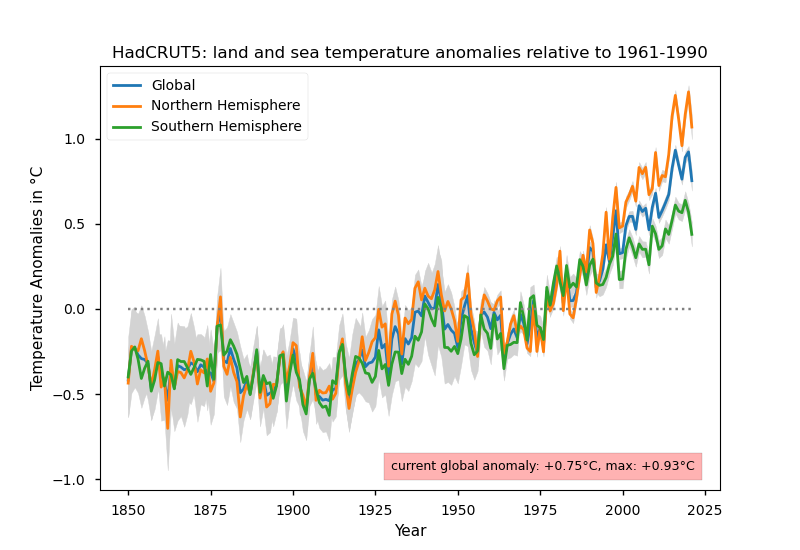
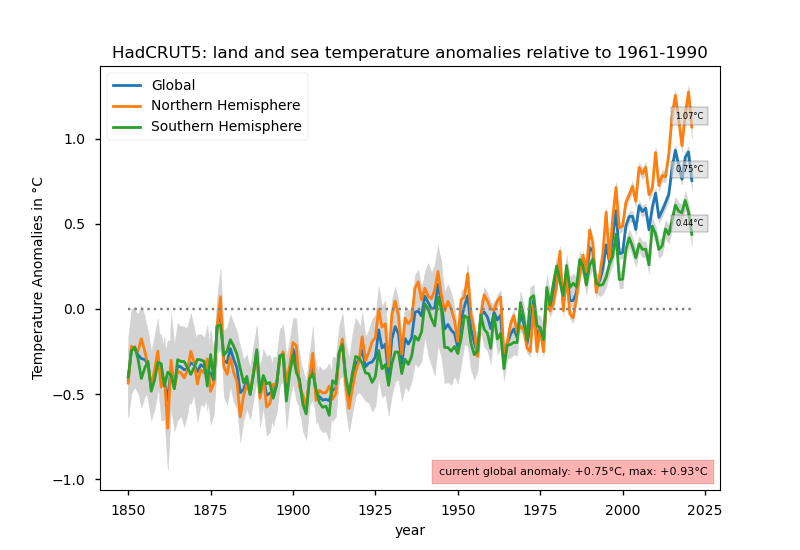
New cmdline option '--annotate'

diff --git a/hadcrut5-plot.py b/hadcrut5-plot.py
@@ -19,7 +19,7 @@ def parse_args():
     examples = [
        "%(prog)s",
        "%(prog)s --global",
-       "%(prog)s --outfile HadCRUT5.png",
+       "%(prog)s --outfile HadCRUT5.png --annotate",
        "%(prog)s --period \"1850-1900\" --outfile HadCRUT5-1850-1900.png",
        "%(prog)s --period \"1880-1920\" --outfile HadCRUT5-1880-1920.png",
        "%(prog)s --period \"1850-1900\" --smoother 5 --outfile HadCRUT-1850-1900-smoother.png"]
@@ -53,6 +53,11 @@ def parse_args():
         dest="southern_temps",
         help="Southern Hemisphere Temperatures")
     parser.add_argument(
+        "-a", "--annotate",
+        action="store_true",
+        dest="annotate_plot",
+        help="add the temperature annotations")
+    parser.add_argument(
         "-v", "--verbose",
         action="store_true",
         dest="verbose",
@@ -60,7 +65,7 @@ def parse_args():
 
     return parser.parse_args()
 
-def plotline(datasets, outfile, period, chunksize, verbose):
+def plotline(datasets, outfile, period, chunksize, annotations, verbose):
     mpl.style.use("seaborn-notebook")
     anomaly_current = {}
     anomaly_max = {}
@@ -94,11 +99,23 @@ def plotline(datasets, outfile, period, chunksize, verbose):
         else:
             plt.fill_between(years, lower, upper, color="lightgray")
 
-        anomaly_current[item] = hadcrut5.dataset_current_anomaly(mean)
-        anomaly_max[item] = hadcrut5.dataset_max_anomaly(mean)
-        if verbose:
-            print("Current anomalies: {}".format(anomaly_current[item]))
-            print("Max anomalies: {}".format(anomaly_max[item]))
+            anomaly_current[item] = hadcrut5.dataset_current_anomaly(mean)
+            anomaly_max[item] = hadcrut5.dataset_max_anomaly(mean)
+            if verbose:
+                print("Current anomalies: {}".format(anomaly_current[item]))
+                print("Max anomalies: {}".format(anomaly_max[item]))
+
+            if annotations:
+                plt.annotate("{0:.2f}°C".format(anomaly_current[item]),
+                             xy=(years[-1]-5, anomaly_current[item]+.05),
+                             fontsize=6,
+                             horizontalalignment='left',
+                             bbox={
+                                 "facecolor": "lightgray",
+                                 "alpha": 0.6,
+                                 "pad": 3
+                            }
+                )
 
         plt.plot(years, mean, linewidth=2, markersize=12, label=item)
 
@@ -107,32 +124,32 @@ def plotline(datasets, outfile, period, chunksize, verbose):
 
     plt.title(
         "HadCRUT5: land and sea temperature anomalies relative to {}".format(period))
-    plt.xlabel("Year")
+    plt.xlabel("year", fontsize=10)
 
     ylabel = "Temperature Anomalies in °C"
     if chunksize > 1:
         ylabel += " ({}-year averages)".format(chunksize)
-    plt.ylabel(ylabel)
+    else:
+        current = anomaly_current.get('Global')
+        maximum = anomaly_max.get('Global')
+        if current and maximum:
+            ax = plt.gca()
+            plt.annotate(("current global anomaly: {0:+.2f}°C, max: {1:+.2f}°C"
+                          .format(current, maximum)),
+                         xy=(0.98, 0.03),
+                         xycoords="axes fraction",
+                         fontsize=8,
+                         horizontalalignment="right",
+                         verticalalignment="bottom",
+                         bbox={
+                             "facecolor": "{}".format(
+                                 "blue" if current <= 0 else "red"
+                             ),
+                             "alpha": 0.3,
+                             "pad": 5,
+                         })
 
-    current = anomaly_current.get('Global')
-    maximum = anomaly_max.get('Global')
-    if current and maximum:
-        ax = plt.gca()
-        plt.annotate(("current global anomaly: {0:+.2f}°C, max: {1:+.2f}°C"
-                      .format(current, maximum)),
-                     xy=(0.96, 0.04),
-                     xycoords="axes fraction",
-                     fontsize=9,
-                     horizontalalignment="right",
-                     verticalalignment="bottom",
-                     bbox={
-                         "facecolor": "{}".format(
-                             "blue" if current <= 0 else "red"
-                         ),
-                         "alpha": 0.3,
-                         "pad": 5
-                     })
-
+    plt.ylabel(ylabel, fontsize=10)
     plt.legend()
 
     if outfile:
@@ -166,6 +183,7 @@ def main():
              args.outfile,
              args.period,
              int(args.smoother) if args.smoother else 1,
+             args.annotate_plot,
              args.verbose)
 
 if __name__ == "__main__":

diff --git a/README.md b/README.md
@@ -60,17 +60,17 @@ examples:
 `hadcrut5-plot.py` select the period `1961-90` by default but supports (see the command-line switch`--period`) two other base periods found in the literature: `1850-1900`, and `1880-1920`.
 
 ```
-$ ./hadcrut5-plot.py --outfile plots/HadCRUT5.png
+$ ./hadcrut5-plot.py --annotate --outfile plots/HadCRUT5.png
 ```
 ![HadCRUT5 anomalies related to 1961-1990](plots/HadCRUT5.png)
 
 ```
-$ ./hadcrut5-plot.py --period "1850-1900" --outfile plots/HadCRUT5-1850-1900.png
+$ ./hadcrut5-plot.py --annotate --period "1850-1900" --outfile plots/HadCRUT5-1850-1900.png
 ```
 ![HadCRUT5 anomalies related to 1850-1900](plots/HadCRUT5-1850-1900.png)
 
 ```
-$ ./hadcrut5-plot.py --period "1880-1920" --outfile plots/HadCRUT5-1880-1920.png
+$ ./hadcrut5-plot.py --annotate --period "1880-1920" --outfile plots/HadCRUT5-1880-1920.png
 ```
 ![HadCRUT5 anomalies related to 1880-1920](plots/HadCRUT5-1880-1920.png)
 
